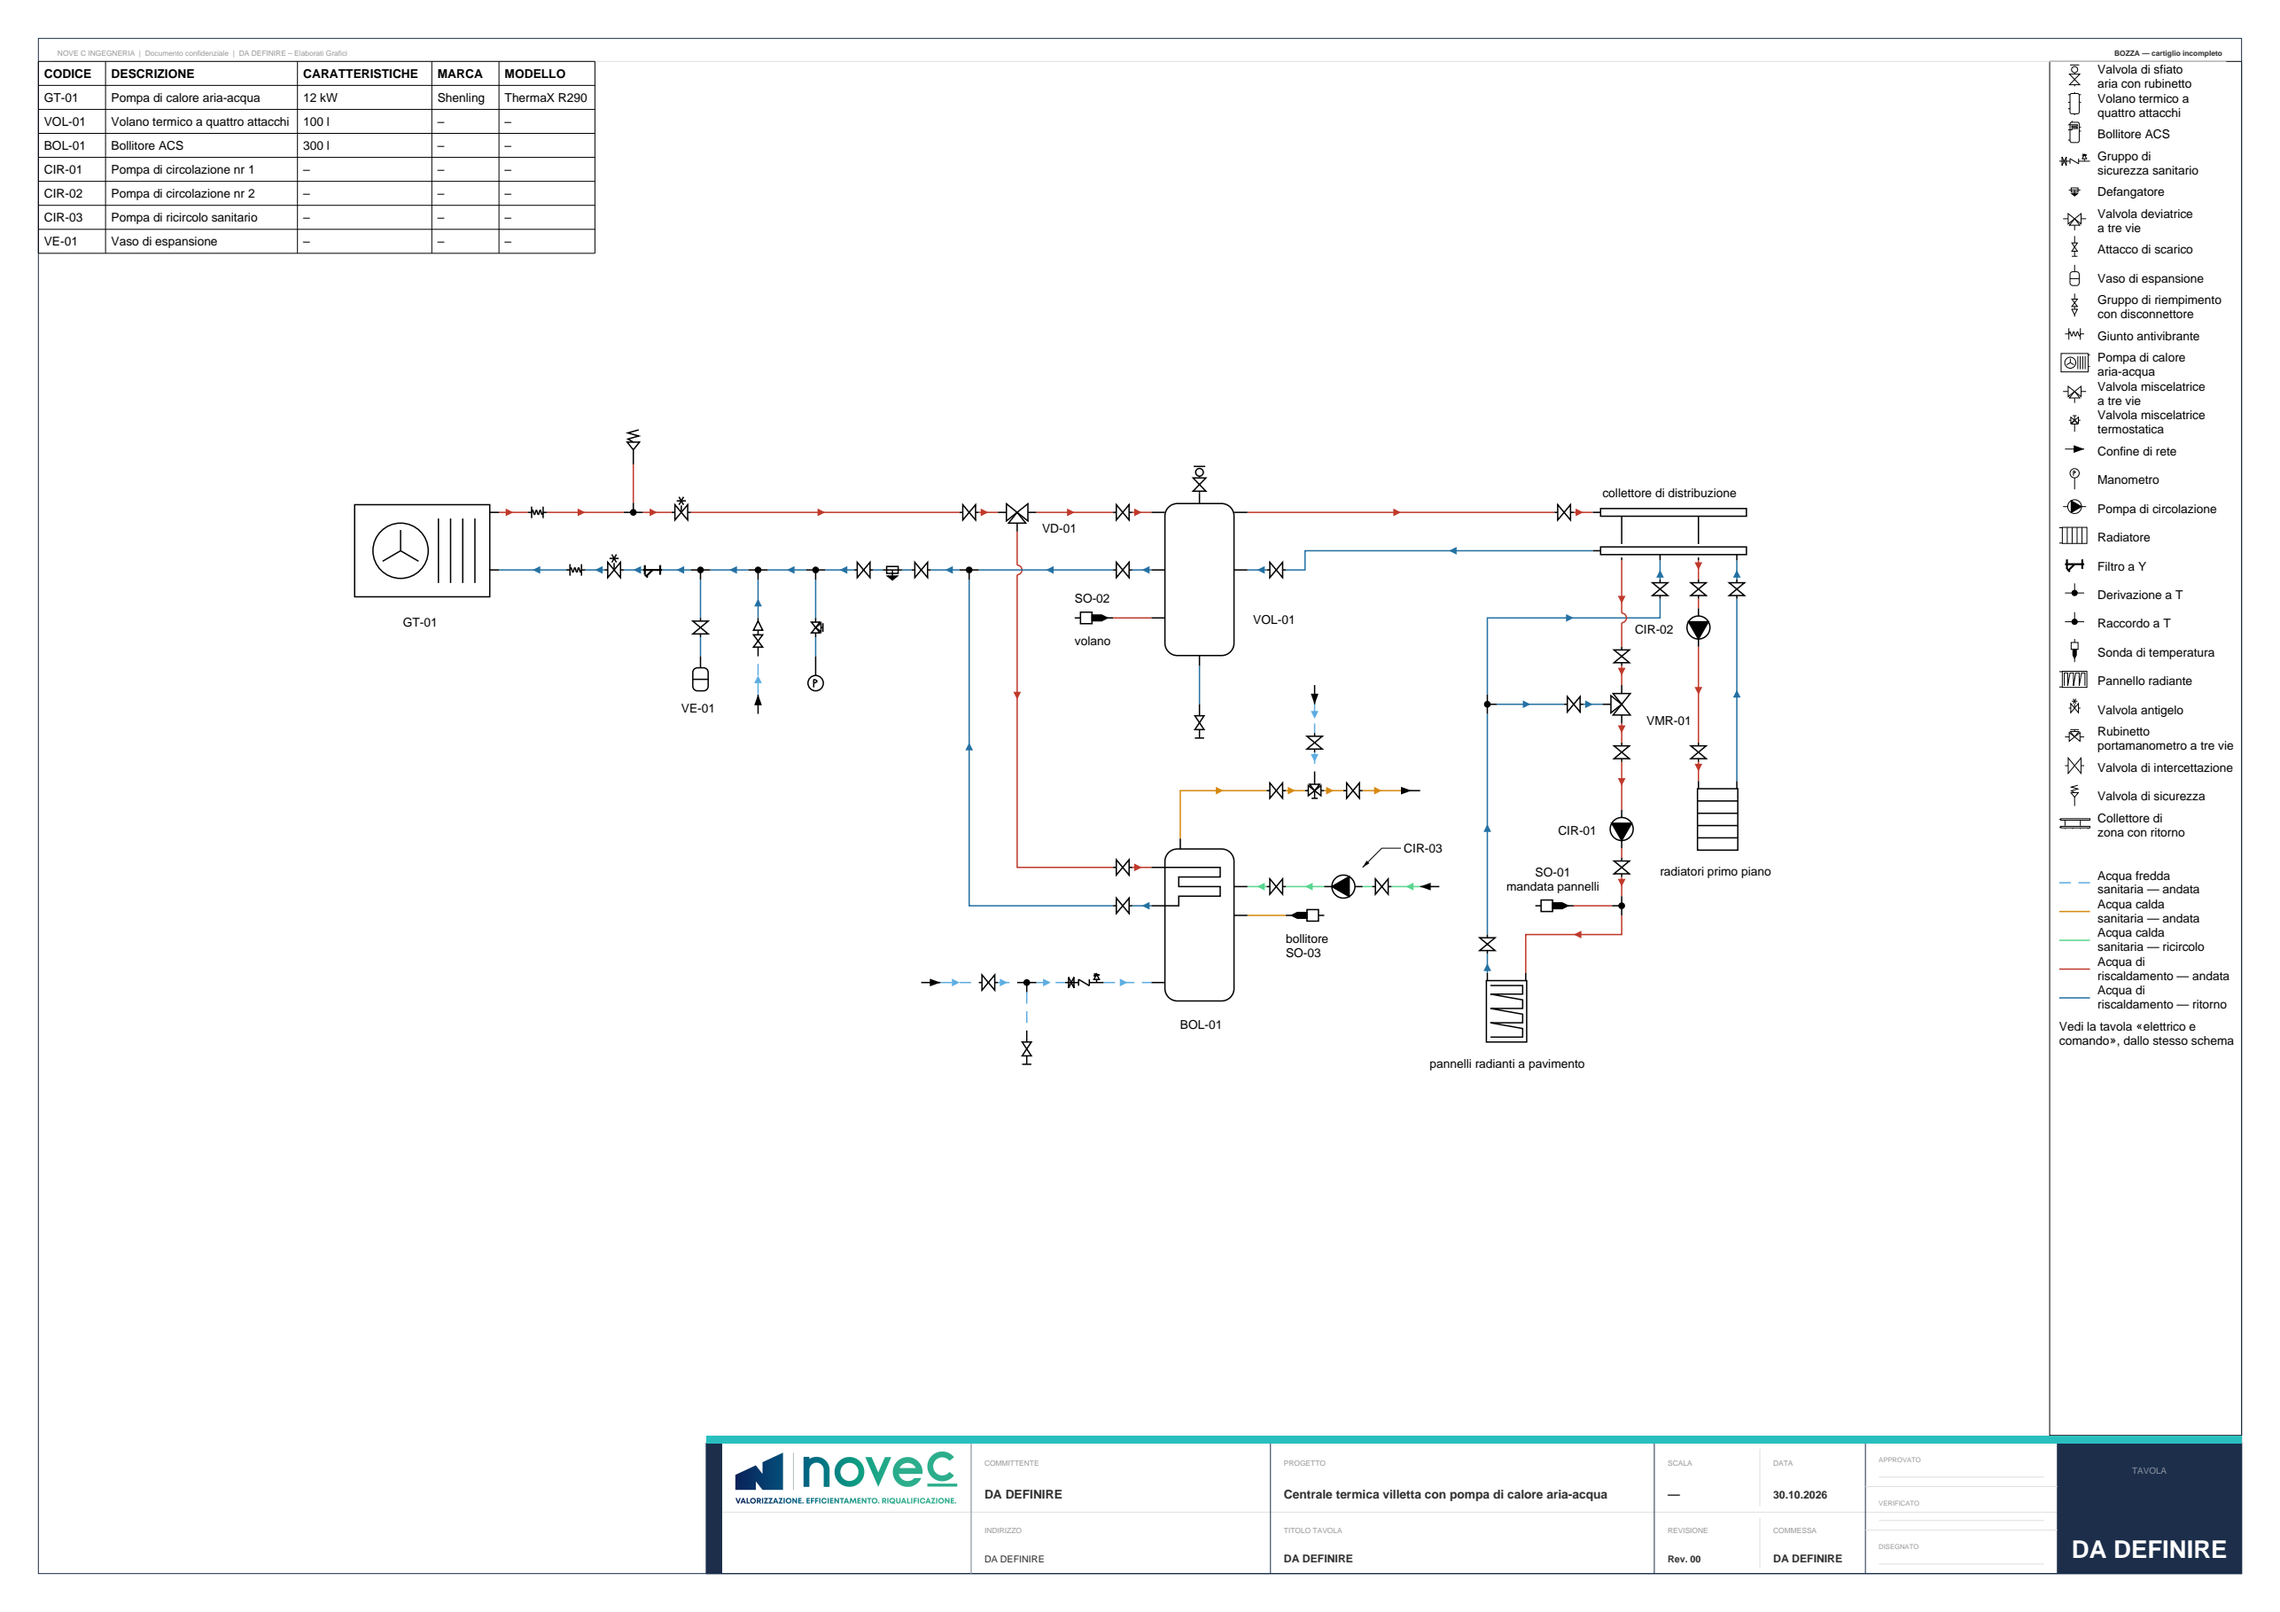
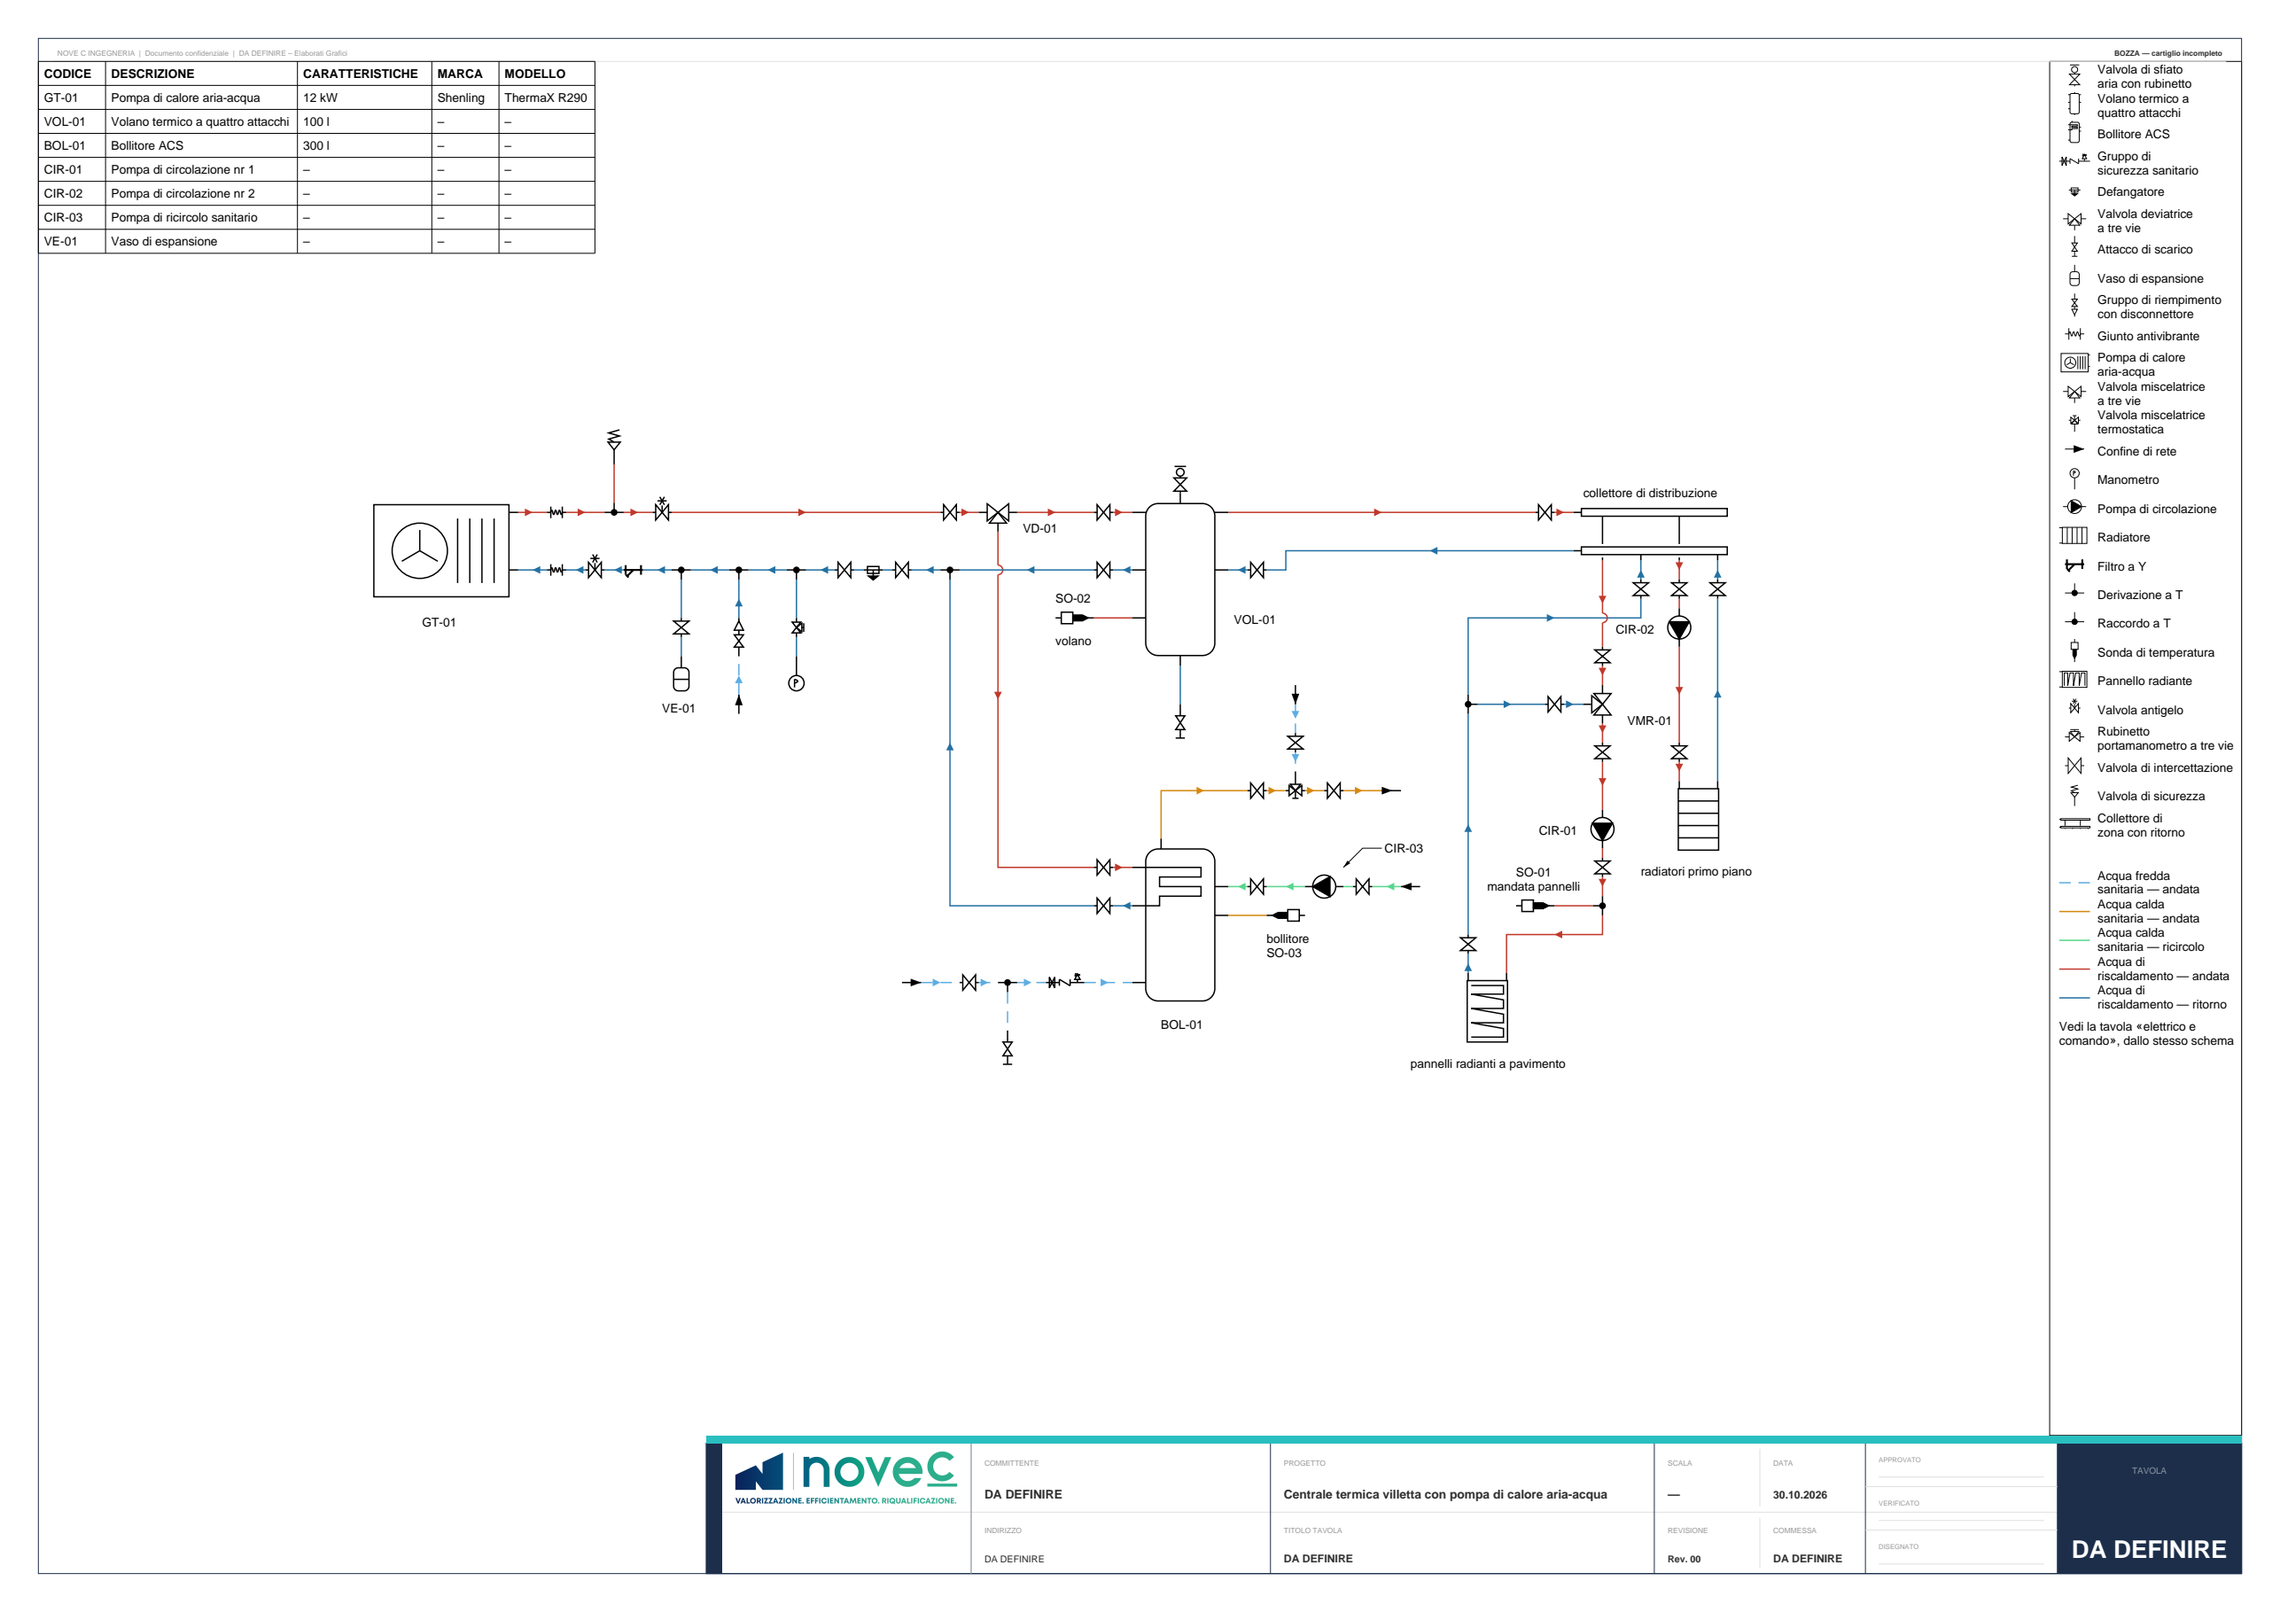
REL-017: il piano con il posto della riduzione resta delle prove di D-233; la villetta di riferimento torna com'era
Il giunto antivibrante del ritorno si era staccato dalla macchina sulla tavola di
riferimento (D-222), per i 10 mm dati alla riduzione anche dove non c'e'.

Claude-Session: https://claude.ai/code/session_01FwSMQGSL8vdNLvoFDMYC8r

diff --git a/tests/diametri/test_la_villetta_della_deviatrice.py b/tests/diametri/test_la_villetta_della_deviatrice.py
@@ -314,7 +314,8 @@ def test_completa_e_disegna_dicono_l_avviso_e_il_grafo_completo_tiene_le_lunghez
     assert len(ritorno) > 2 and all(t.get("esistente") for t in ritorno), ritorno
 
     tavola = tmp_path / "tavola"
-    piano = VILLETTA / "piano-idraulica.json"
+    # Il piano della villetta con il posto della riduzione (D-233): la PdC 10 mm a sinistra.
+    piano = ROOT / "docs" / "collaudi" / "REL-017" / "riduzione" / "piano-idraulica.json"
     argomenti = ["disegna", str(completo), "--piano", str(piano), "--out", str(tavola), "--senza-dxf"]
     assert main(argomenti, cartelle) == 0
     assert "Avvisi della prevalenza della pompa a bordo" in capsys.readouterr().out

diff --git a/docs/collaudi/REL-017/tubi/rifai.py b/docs/collaudi/REL-017/tubi/rifai.py
@@ -38,7 +38,8 @@ from disegnatore_mep.piano.vista import sigle_del_grafo_intero  # noqa: E402
 from disegnatore_mep.skill import cartelle_del_repository, main  # noqa: E402
 
 VILLETTA = ROOT / "docs" / "collaudi" / "REL-017" / "diametri"
-PIANO_VILLETTA = ROOT / "docs" / "collaudi" / "REL-015" / "pdc-regola" / "piano-idraulica.json"
+PIANO_VILLETTA = ROOT / "docs" / "collaudi" / "REL-017" / "riduzione" / "piano-idraulica.json"
+"""Il piano della villetta di `REL-015/pdc-regola` con la pompa di calore 10 mm a sinistra: il posto della riduzione (D-233)."""
 IMPIANTO_7 = ROOT / "docs" / "collaudi" / "REL-001" / "impianto-7"
 
 Ritocco = Callable[[dict[str, Any]], None]

diff --git a/docs/collaudi/REL-017/riduzione/rifai.py b/docs/collaudi/REL-017/riduzione/rifai.py
@@ -30,7 +30,7 @@ from PIL import Image  # noqa: E402
 from disegnatore_mep.skill import cartelle_del_repository, main  # noqa: E402
 
 VILLETTA = ROOT / "docs" / "collaudi" / "REL-017" / "diametri" / "grafo.json"
-PIANO = ROOT / "docs" / "collaudi" / "REL-015" / "pdc-regola" / "piano-idraulica.json"
+PIANO = ROOT / "docs" / "collaudi" / "REL-017" / "riduzione" / "piano-idraulica.json"
 DPI = 200
 MARGINE_MM = (25.0, 30.0, 95.0, 45.0)
 """Quanto si prende attorno alla pompa di calore: a sinistra, sopra, a destra, sotto. A

diff --git a/tests/diametri/test_la_riduzione_all_attacco.py b/tests/diametri/test_la_riduzione_all_attacco.py
@@ -22,7 +22,7 @@ from disegnatore_mep.skill import cartelle_del_repository, main
 
 ROOT = Path(__file__).resolve().parents[2]
 VILLETTA = ROOT / "docs" / "collaudi" / "REL-017" / "diametri" / "grafo.json"
-PIANO = ROOT / "docs" / "collaudi" / "REL-015" / "pdc-regola" / "piano-idraulica.json"
+PIANO = ROOT / "docs" / "collaudi" / "REL-017" / "riduzione" / "piano-idraulica.json"
 
 MANDATA = "pipe-reducer-pdc-water-supply"
 RITORNO = "pipe-reducer-pdc-water-return"
